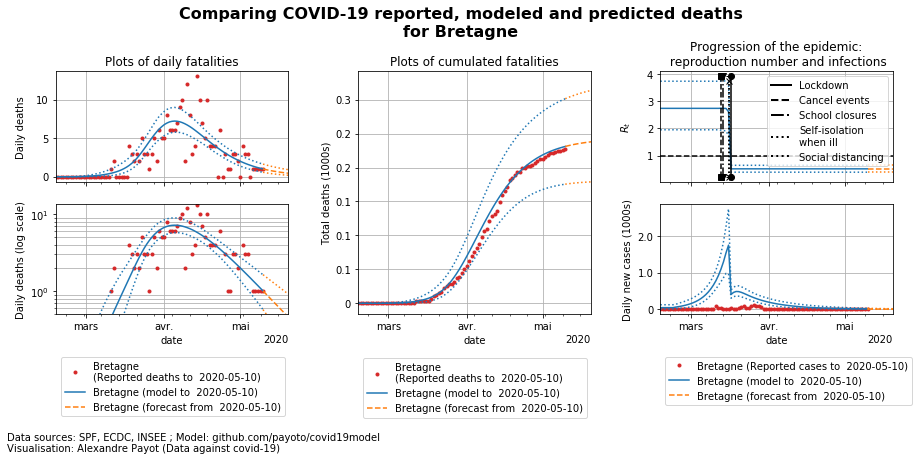
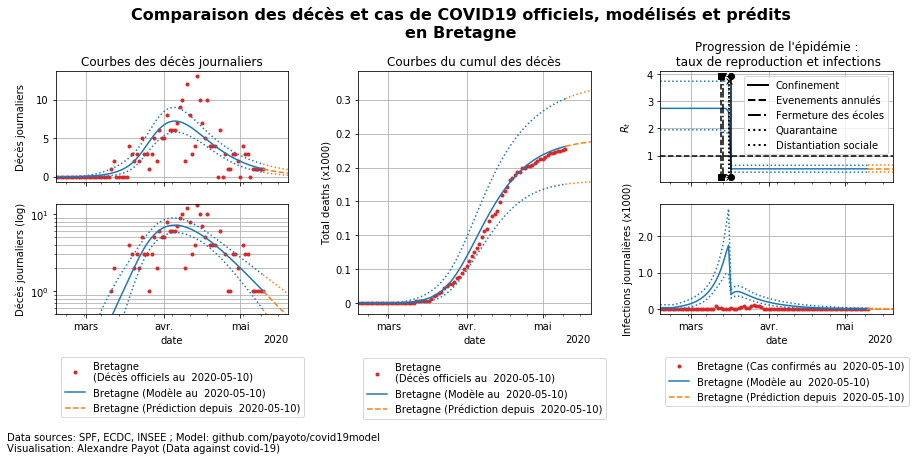
Fix langage in France report and add more text

diff --git a/public_reports/france_report/france_report.md b/public_reports/france_report/france_report.md
@@ -2,6 +2,12 @@
 
 Ce rapport présente les resultats du travail de réplication d'Imperial College sur la progression de l'épidémie COVID-19 en Europe. Ce travail, reprend les mêmes méthodes et les appliquent à la France et ses régions.
 
+Toutes les régions françaises sont passées au crible. À chaque fois trois graphiques illustrent la progression du nombre de décès, un quatrième montre l'effondrement du taux de reproduction initial et le dernier extrapole la progression du nombre de cas confirmés, à partir d'un taux de mortalité estimé à 1,12% (scénario plutôt pessimiste).
+
+D'une manière générale le projet vise à estimer au plus près l'impact de cinq interventions politiques (distanciation physique, confinement, annulation des grands événements, fermeture des écoles et université, mise en quarantaine des personnes infectée) sur la courbe des décès liés à la pandémie. En ce sens, les données de 'Google Community Reports' sont en cours d'intégration afin d'améliorer la capacité prédictive du modèle.
+
+Les prédictions presentées dans les graphes ci-dessous (lignes pointillées) ne prennent pas en compte le déconfinement. Elles ne sont présentées ici que pour accentuer les tendances observées durant le confinement.
+
 ## Résultats au niveau du Pays
 
 Dans cette section vous retrouverez des délimitations non géographiquesde la population, nottament une modelisation sur la base des données:
@@ -13,104 +19,104 @@ Dans cette section vous retrouverez des délimitations non géographiquesde la p
 
 ### France 
 
- Simulation sur la base de donnees du  2020-05-10  avec la version  v3 du code d'Imperial College a Londres 
+ Simulation sur la base de données du  2020-05-10  avec la version  v3 du code d'Imperial College à Londres 
 
  ![img_file](img/France_2020-05-10.png)
 
 ### France-EHPAD 
 
- Simulation sur la base de donnees du  2020-05-10  avec la version  v3 du code d'Imperial College a Londres 
+ Simulation sur la base de données du  2020-05-10  avec la version  v3 du code d'Imperial College à Londres 
 
  ![img_file](img/France-EHPAD_2020-05-10.png)
 
 ### France-OC19 
 
- Simulation sur la base de donnees du  2020-05-10  avec la version  v3 du code d'Imperial College a Londres 
+ Simulation sur la base de données du  2020-05-10  avec la version  v3 du code d'Imperial College à Londres 
 
  ![img_file](img/France-OC19_2020-05-10.png)
 
 ### France-hopitaux 
 
- Simulation sur la base de donnees du  2020-05-10  avec la version  v3 du code d'Imperial College a Londres 
+ Simulation sur la base de données du  2020-05-10  avec la version  v3 du code d'Imperial College à Londres 
 
  ![img_file](img/France-hopitaux_2020-05-10.png)
 
 ## Résultats régionaux 
 ### Auvergne-Rhône-Alpes 
 
- Simulation sur la base de donnees du  2020-05-10  avec la version  v3 du code d'Imperial College a Londres 
+ Simulation sur la base de données du  2020-05-10  avec la version  v3 du code d'Imperial College à Londres 
 
  ![img_file](img/Auvergne-Rhône-Alpes_2020-05-10.png)
 
 ### Bourgogne-Franche-Comté 
 
- Simulation sur la base de donnees du  2020-05-10  avec la version  v3 du code d'Imperial College a Londres 
+ Simulation sur la base de données du  2020-05-10  avec la version  v3 du code d'Imperial College à Londres 
 
  ![img_file](img/Bourgogne-Franche-Comté_2020-05-10.png)
 
 ### Bretagne 
 
- Simulation sur la base de donnees du  2020-05-10  avec la version  v3 du code d'Imperial College a Londres 
+ Simulation sur la base de données du  2020-05-10  avec la version  v3 du code d'Imperial College à Londres 
 
  ![img_file](img/Bretagne_2020-05-10.png)
 
 ### Centre-Val de Loire 
 
- Simulation sur la base de donnees du  2020-05-10  avec la version  v3 du code d'Imperial College a Londres 
+ Simulation sur la base de données du  2020-05-10  avec la version  v3 du code d'Imperial College à Londres 
 
  ![img_file](img/Centre-Val_de_Loire_2020-05-10.png)
 
 ### Corse 
 
- Simulation sur la base de donnees du  2020-05-10  avec la version  v3 du code d'Imperial College a Londres 
+ Simulation sur la base de données du  2020-05-10  avec la version  v3 du code d'Imperial College à Londres 
 
  ![img_file](img/Corse_2020-05-10.png)
 
 ### Grand Est 
 
- Simulation sur la base de donnees du  2020-05-10  avec la version  v3 du code d'Imperial College a Londres 
+ Simulation sur la base de données du  2020-05-10  avec la version  v3 du code d'Imperial College à Londres 
 
  ![img_file](img/Grand_Est_2020-05-10.png)
 
 ### Hauts-de-France 
 
- Simulation sur la base de donnees du  2020-05-10  avec la version  v3 du code d'Imperial College a Londres 
+ Simulation sur la base de données du  2020-05-10  avec la version  v3 du code d'Imperial College à Londres 
 
  ![img_file](img/Hauts-de-France_2020-05-10.png)
 
 ### Normandie 
 
- Simulation sur la base de donnees du  2020-05-10  avec la version  v3 du code d'Imperial College a Londres 
+ Simulation sur la base de données du  2020-05-10  avec la version  v3 du code d'Imperial College à Londres 
 
  ![img_file](img/Normandie_2020-05-10.png)
 
 ### Nouvelle-Aquitaine 
 
- Simulation sur la base de donnees du  2020-05-10  avec la version  v3 du code d'Imperial College a Londres 
+ Simulation sur la base de données du  2020-05-10  avec la version  v3 du code d'Imperial College à Londres 
 
  ![img_file](img/Nouvelle-Aquitaine_2020-05-10.png)
 
 ### Occitanie 
 
- Simulation sur la base de donnees du  2020-05-10  avec la version  v3 du code d'Imperial College a Londres 
+ Simulation sur la base de données du  2020-05-10  avec la version  v3 du code d'Imperial College à Londres 
 
  ![img_file](img/Occitanie_2020-05-10.png)
 
 ### Pays de la Loire 
 
- Simulation sur la base de donnees du  2020-05-10  avec la version  v3 du code d'Imperial College a Londres 
+ Simulation sur la base de données du  2020-05-10  avec la version  v3 du code d'Imperial College à Londres 
 
  ![img_file](img/Pays_de_la_Loire_2020-05-10.png)
 
 ### Provence-Alpes-Côte d'Azur 
 
- Simulation sur la base de donnees du  2020-05-10  avec la version  v3 du code d'Imperial College a Londres 
+ Simulation sur la base de données du  2020-05-10  avec la version  v3 du code d'Imperial College à Londres 
 
  ![img_file](img/Provence-Alpes-Côte_d'Azur_2020-05-10.png)
 
 ### Île-de-France 
 
- Simulation sur la base de donnees du  2020-05-10  avec la version  v3 du code d'Imperial College a Londres 
+ Simulation sur la base de données du  2020-05-10  avec la version  v3 du code d'Imperial College à Londres 
 
  ![img_file](img/Île-de-France_2020-05-10.png)
 
